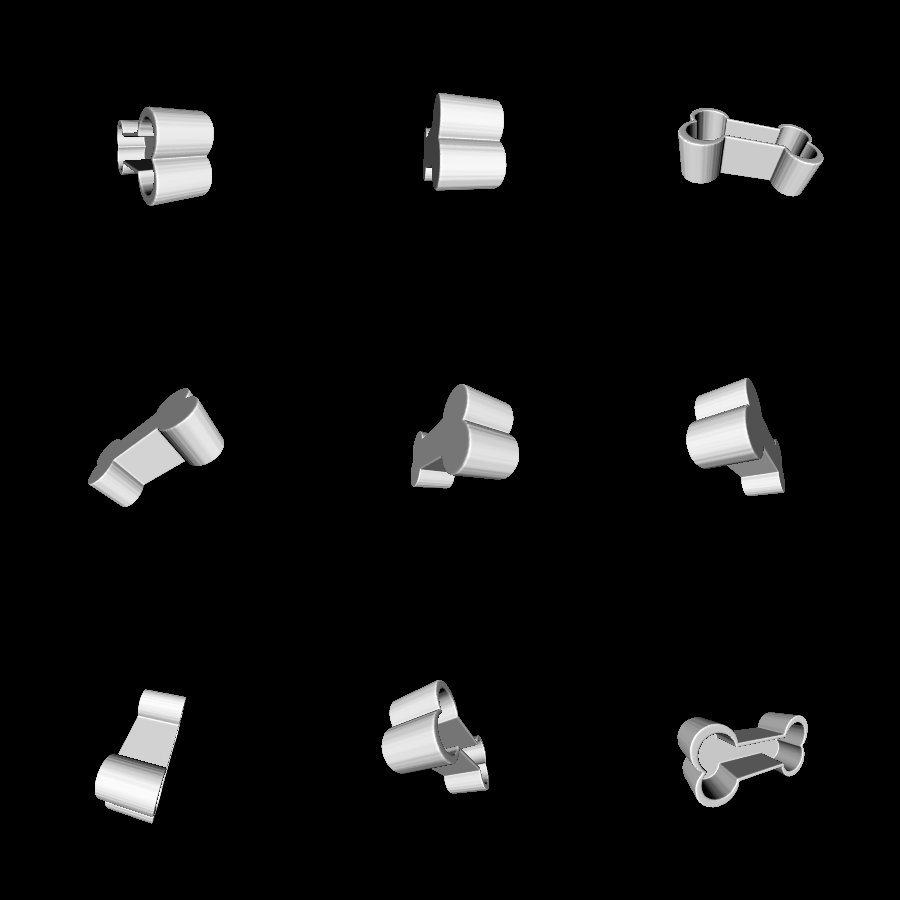
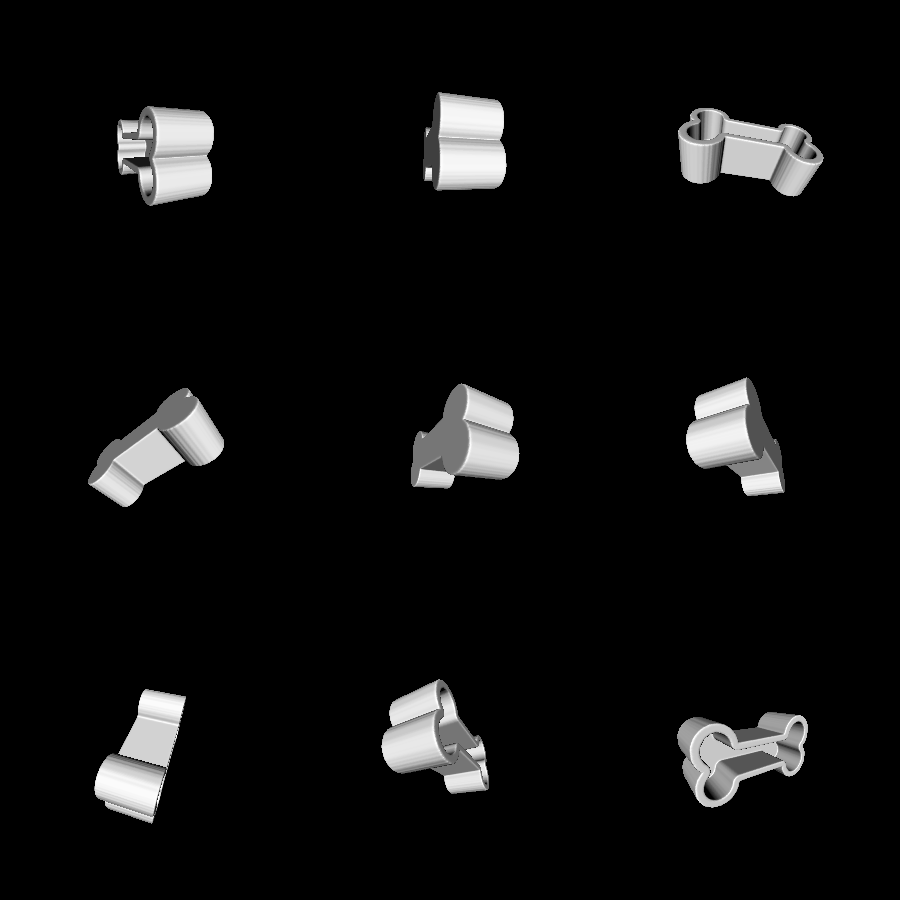
uniform thickness in bone box using model2d

diff --git a/examples/usable/treat_box/main.go b/examples/usable/treat_box/main.go
@@ -1,13 +1,10 @@
 package main
 
 import (
-	"image"
-	"image/png"
-	"os"
+	"github.com/unixpickle/model3d/model2d"
 
 	"github.com/unixpickle/model3d/toolbox3d"
 
-	"github.com/unixpickle/essentials"
 	"github.com/unixpickle/model3d"
 )
 
@@ -66,16 +63,14 @@ func main() {
 }
 
 type BoxSolid struct {
-	Img image.Image
+	Bitmap   *model2d.Bitmap
+	Collider model2d.Collider
 }
 
 func NewBoxSolid() *BoxSolid {
-	f, err := os.Open("bone.png")
-	essentials.Must(err)
-	defer f.Close()
-	img, err := png.Decode(f)
-	essentials.Must(err)
-	return &BoxSolid{Img: img}
+	bmp := model2d.MustReadBitmap("bone.png", nil)
+	collider := model2d.MeshToCollider(bmp.Mesh())
+	return &BoxSolid{Bitmap: bmp, Collider: collider}
 }
 
 func (b *BoxSolid) Min() model3d.Coord3D {
@@ -83,7 +78,7 @@ func (b *BoxSolid) Min() model3d.Coord3D {
 }
 
 func (b *BoxSolid) Max() model3d.Coord3D {
-	depth := BoxWidth * float64(b.Img.Bounds().Dy()) / float64(b.Img.Bounds().Dx())
+	depth := BoxWidth * float64(b.Bitmap.Height) / float64(b.Bitmap.Width)
 	return model3d.Coord3D{X: BoxWidth, Y: depth, Z: BoxHeight}
 }
 
@@ -101,23 +96,19 @@ func (b *BoxSolid) filledContains(c model3d.Coord3D) bool {
 	if c.Min(b.Min()) != b.Min() || c.Max(b.Max()) != b.Max() {
 		return false
 	}
-	x := int(float64(b.Img.Bounds().Dx()) * c.X / b.Max().X)
-	y := int(float64(b.Img.Bounds().Dy()) * c.Y / b.Max().Y)
-	red, _, blue, _ := b.Img.At(x, y).RGBA()
-	return blue > red*2
+	x := int(float64(b.Bitmap.Width) * c.X / b.Max().X)
+	y := int(float64(b.Bitmap.Height) * c.Y / b.Max().Y)
+	return b.Bitmap.Get(x, y)
 }
 
 func (b *BoxSolid) containsInset(c model3d.Coord3D, thickness float64) bool {
-	scale := BoxWidth / (BoxWidth - thickness*4)
-	center := b.Min().Mid(b.Max())
-	if c.X < center.X {
-		center.X = b.Min().Scale(0.6).Add(center.Scale(0.4)).X
-	} else {
-		center.X = b.Max().Scale(0.6).Add(center.Scale(0.4)).X
+	if !b.filledContains(c) {
+		return false
 	}
-	outset := c.Sub(center).Scale(scale).Add(center)
-	outset.Z = c.Z
-	return b.filledContains(outset)
+	scale := float64(b.Bitmap.Width) / b.Max().X
+	x := float64(b.Bitmap.Width) * c.X / b.Max().X
+	y := float64(b.Bitmap.Height) * c.Y / b.Max().Y
+	return !b.Collider.CircleCollision(model2d.Coord{X: x, Y: y}, thickness*scale)
 }
 
 type LidSolid struct {
